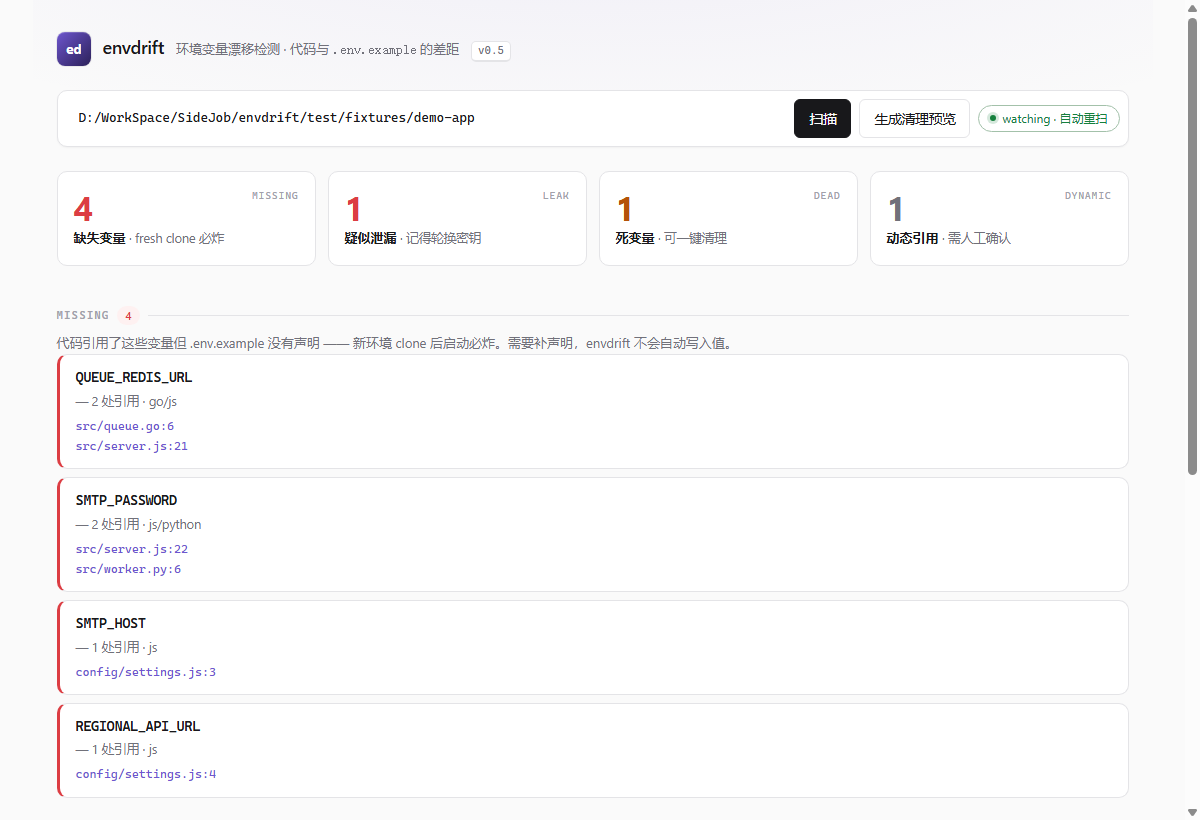
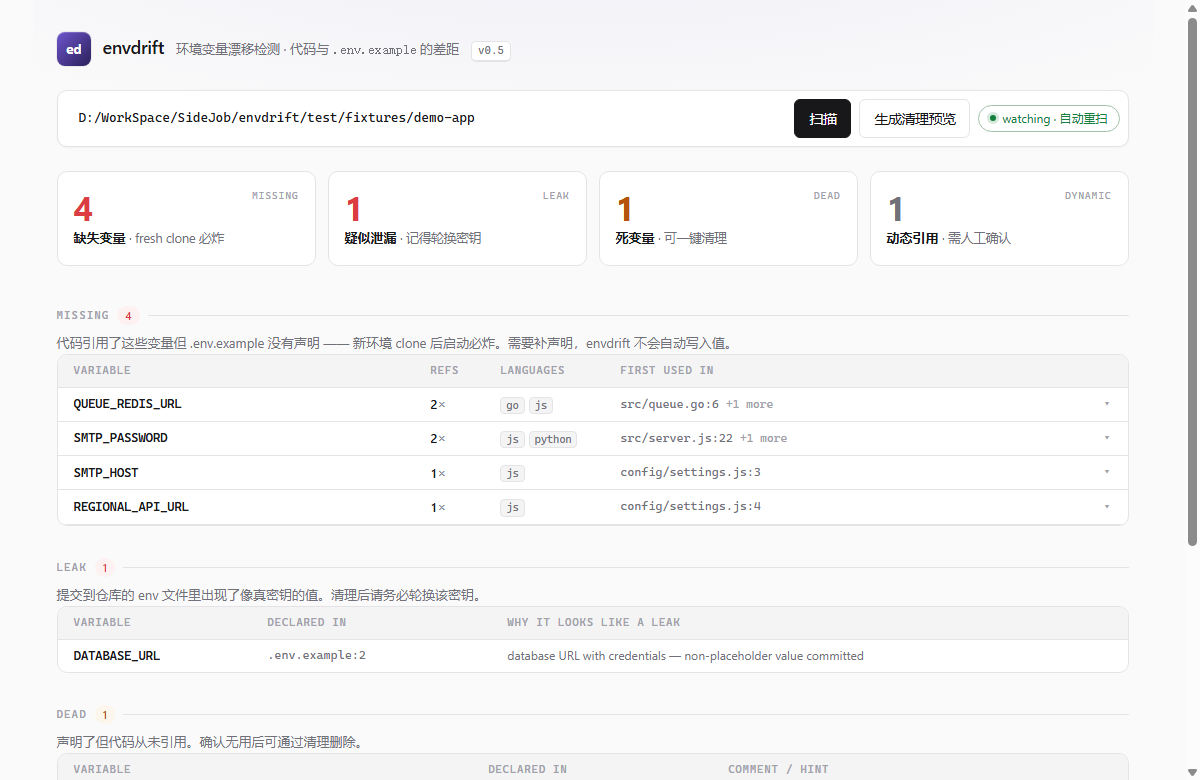
feat(ui): high-density table layout — fix the whitespace problem (v0.7)
Findings were one-variable-per-card with mostly empty space; a screen fit
4 variables. Now every section is a real data table:

- column-aligned rows: Variable | Refs | Languages | First used in
- language chips, tabular-num counts, '+N more' collapse, status dots
- click a missing row to expand all its reference locations inline
- click any file:line link to open a file-peek modal with the offending
  config line highlighted (server-backed /api/file)
- leaks/dead/dynamic tables with dedicated columns (where, reason, hint)
- ~5-6x more rows per screen; screenshots refreshed

diff --git a/src/web/index.html b/src/web/index.html
@@ -165,33 +165,53 @@ section { margin-top: var(--space-6); scroll-margin-top: var(--space-5); }
   margin-top: var(--space-5); font-weight: 500;
 }
 
-/* ---------- finding rows ---------- */
-.finding {
-  display: flex; flex-direction: column; gap: 2px;
+/* ---------- finding tables (high density) ---------- */
+.tblwrap {
   border: 1px solid var(--line); border-radius: var(--radius-md);
-  background: var(--surface);
-  padding: var(--space-3) var(--space-4);
-  margin-bottom: var(--space-2);
-  transition: border-color .12s ease-out;
+  background: var(--surface); overflow: hidden;
 }
-.finding:hover { border-color: var(--line-strong); }
-.finding.missing { border-left: 3px solid var(--danger); }
-.finding.leak { border-left: 3px solid var(--danger); }
-.finding.dead { border-left: 3px solid var(--warn); }
-.finding .name { font-family: var(--mono); font-weight: 600; font-size: 13.5px; letter-spacing: -0.01em; }
-.finding .meta { color: var(--fg-muted); font-size: 12.5px; }
-.finding .src {
-  font-family: var(--mono); font-size: 12px; margin-top: var(--space-1);
-  color: var(--fg-muted); white-space: pre-wrap; word-break: break-all;
+table.tbl { width: 100%; border-collapse: collapse; font-size: 13px; }
+.tbl th {
+  position: sticky; top: 0; z-index: 1;
+  text-align: left; font-weight: 550; font-size: 11px;
+  font-family: var(--mono); letter-spacing: .07em; text-transform: uppercase;
+  color: var(--fg-faint); background: var(--bg-subtle);
+  padding: 7px var(--space-4); border-bottom: 1px solid var(--line);
+  white-space: nowrap;
 }
-.finding.leak .src { color: var(--danger); }
-.finding.dead .src { color: var(--warn); }
-.finding .refs { margin: var(--space-1) 0 0; padding: 0; list-style: none; display: flex; flex-direction: column; gap: 1px; }
-.finding .refs li { font-family: var(--mono); font-size: 12px; color: var(--fg-muted); }
-.finding .refs a { color: var(--accent); text-decoration: none; }
-.finding .refs a:hover { text-decoration: underline; }
+.tbl td {
+  padding: 7px var(--space-4); border-bottom: 1px solid var(--line);
+  vertical-align: middle; line-height: 1.45;
+}
+.tbl tr:last-child td { border-bottom: none; }
+.tbl tbody tr { transition: background .1s ease-out; }
+.tbl tbody tr:hover { background: var(--bg-subtle); }
+.tbl .vname { font-family: var(--mono); font-weight: 600; font-size: 12.5px; letter-spacing: -0.01em; word-break: break-all; }
+.tbl .loc { font-family: var(--mono); font-size: 12px; color: var(--fg-muted); white-space: nowrap; }
+.tbl .loc a { color: var(--fg-muted); text-decoration: none; }
+.tbl .loc a:hover { color: var(--accent); text-decoration: underline; }
+.tbl .more { color: var(--fg-faint); font-size: 11.5px; white-space: nowrap; }
+.tbl .num { font-variant-numeric: tabular-nums; color: var(--fg-muted); font-size: 12.5px; white-space: nowrap; }
+.tbl .num b { color: var(--fg); font-weight: 600; }
+.dotcol { display: inline-flex; align-items: center; gap: 6px; }
+.dotcol::before { content: ""; width: 7px; height: 7px; border-radius: 50%; flex: none; }
+tr.row-missing .dotcol::before { background: var(--danger); }
+tr.row-leak .dotcol::before { background: var(--danger); box-shadow: 0 0 0 3px color-mix(in oklab, var(--danger) 15%, transparent); }
+tr.row-dead .dotcol::before { background: var(--warn); }
+tr.row-dyn .dotcol::before { background: var(--fg-faint); }
+.langtag {
+  display: inline-block; font-family: var(--mono); font-size: 10.5px;
+  color: var(--fg-muted); background: var(--bg-subtle);
+  border: 1px solid var(--line); border-radius: 4px; padding: 0 5px; margin-right: 4px;
+}
+.reason { color: var(--fg-muted); font-size: 12px; }
+.rowdetail { background: var(--bg-subtle); }
+.rowdetail td { padding: var(--space-2) var(--space-4) var(--space-3); border-bottom: 1px solid var(--line); }
+.rowdetail .refs { display: flex; flex-direction: column; gap: 2px; padding: 0; margin: 0; list-style: none; }
+.rowdetail .refs a { font-family: var(--mono); font-size: 12px; color: var(--accent); text-decoration: none; width: fit-content; }
+.rowdetail .refs a:hover { text-decoration: underline; }
 
-/* ---------- diff preview ---------- */
+/* ---------- sections ---------- */
 .diff {
   font-family: var(--mono); font-size: 12.5px;
   background: var(--bg-subtle); border: 1px solid var(--line);
@@ -244,6 +264,25 @@ section { margin-top: var(--space-6); scroll-margin-top: var(--space-5); }
 footer { margin-top: var(--space-7); color: var(--fg-faint); font-size: 12.5px; border-top: 1px solid var(--line); padding-top: var(--space-4); display: flex; gap: var(--space-2); flex-wrap: wrap; }
 footer a { color: var(--fg-muted); text-decoration: none; }
 footer a:hover { color: var(--fg); text-decoration: underline; }
+
+/* file peek overlay */
+#filepeek { position: fixed; inset: 0; background: rgba(0,0,0,.45); display: grid; place-items: center; z-index: 50; padding: var(--space-5); }
+.peekcard {
+  background: var(--surface); border: 1px solid var(--line-strong); border-radius: var(--radius-md);
+  width: min(760px, 100%); max-height: 80vh; display: flex; flex-direction: column;
+  box-shadow: 0 16px 48px rgba(0,0,0,.25);
+}
+.peekhead {
+  display: flex; align-items: center; justify-content: space-between; gap: var(--space-3);
+  padding: var(--space-3) var(--space-4); border-bottom: 1px solid var(--line);
+  font-family: var(--mono); font-size: 12.5px; font-weight: 600;
+}
+.peekbody {
+  font-family: var(--mono); font-size: 12px; line-height: 1.75;
+  padding: var(--space-3) var(--space-4); overflow: auto; margin: 0;
+  white-space: pre; color: var(--fg-muted);
+}
+.peekbody .peekhot { display: block; background: var(--accent-subtle); color: var(--fg); border-left: 2px solid var(--accent); padding-left: var(--space-2); margin-left: calc(-1 * var(--space-2) - 2px); }
 @media (max-width: 640px) {
   .stat b { font-size: 28px; }
   .scanrow .btn { flex: 1 1 auto; justify-content: center; }
@@ -370,13 +409,27 @@ async function scan(quiet = false) {
   } finally { if (!quiet) busy(false); }
 }
 
+function tbl(id, cols, rowsHtml, emptyText, count) {
+  const el = $(id);
+  if (!count) { el.innerHTML = ''; return; }
+  el.innerHTML = `
+    <div class="tblwrap"><table class="tbl">
+      <thead><tr>${cols.map((c) => `<th${c.w ? ` style="width:${c.w}"` : ''}>${c.t}</th>`).join('')}</tr></thead>
+      <tbody>${rowsHtml}</tbody>
+    </table></div>`;
+}
+
+function refLinks(refs, max = 3) {
+  return refs.slice(0, max).map((ref) =>
+    `<a href="#" data-file="${esc(ref.file)}" data-line="${ref.line}">${esc(ref.file)}:${ref.line}</a>`).join('');
+}
+
 function render(r) {
   const n = (id, v) => { $(id).textContent = v; };
   n('st-missing', r.missing.length); n('st-leaks', r.leaks.length);
   n('st-dead', r.dead.length); n('st-dynamic', r.dynamic.length);
   n('n-missing', r.missing.length); n('n-leaks', r.leaks.length);
   n('n-dead', r.dead.length); n('n-dynamic', r.dynamic.length);
-  // zero-count stats get the calm ok color and lose their anchor
   const z = (id, v) => { const el = $(id); el.classList.toggle('zero', v === 0); if (v === 0) el.removeAttribute('href'); else el.setAttribute('href', '#sec-' + id.replace('stat-', '')); };
   z('stat-missing', r.missing.length); z('stat-leaks', r.leaks.length);
   z('stat-dead', r.dead.length);
@@ -386,38 +439,58 @@ function render(r) {
   $('clean').hidden = total !== 0;
   $('fix').disabled = !(r.dead.length || r.leaks.length);
 
+  // missing: VARIABLE | refs count | languages | locations (expandable)
   $('sec-missing').hidden = !r.missing.length;
-  $('list-missing').innerHTML = r.missing.map((m) => `
-    <div class="finding missing">
-      <span class="name">${esc(m.name)}</span>
-      <span class="meta"> — ${m.refs.length} 处引用 · ${esc(m.langs.join('/'))}</span>
-      <ul class="refs">${m.refs.slice(0, 4).map((ref) =>
-        `<li><a href="#" data-file="${esc(ref.file)}" data-line="${ref.line}">${esc(ref.file)}:${ref.line}</a></li>`).join('')}
-        ${m.refs.length > 4 ? `<li>… 还有 ${m.refs.length - 4} 处</li>` : ''}
-      </ul>
-    </div>`).join('');
+  $('list-missing').innerHTML = '';
+  tbl('list-missing',
+    [{ t: 'Variable' }, { t: 'Refs', w: '70px' }, { t: 'Languages', w: '120px' }, { t: 'First used in', w: 'auto' }, { t: '', w: '24px' }],
+    r.missing.map((m, i) => {
+      const loc = m.refs[0];
+      return `<tr class="row-missing" data-i="${i}">
+        <td class="vname">${esc(m.name)}</td>
+        <td class="num"><b>${m.refs.length}</b>×</td>
+        <td>${m.langs.map((l) => `<span class="langtag">${esc(l)}</span>`).join('')}</td>
+        <td class="loc"><a href="#" data-file="${esc(loc.file)}" data-line="${loc.line}">${esc(loc.file)}:${loc.line}</a>${m.refs.length > 1 ? ` <span class="more">+${m.refs.length - 1} more</span>` : ''}</td>
+        <td class="more">▾</td>
+      </tr><tr class="rowdetail" hidden><td colspan="5"><ul class="refs">${refLinks(m.refs, 8)}</ul></td></tr>`;
+    }).join(''),
+    '', r.missing.length);
 
+  // leaks: VARIABLE | where | reason
   $('sec-leaks').hidden = !r.leaks.length;
-  $('list-leaks').innerHTML = r.leaks.map((l) => `
-    <div class="finding leak">
-      <span class="name">${esc(l.name)}</span>
-      <span class="meta"> — ${esc(l.reason)}</span>
-      <div class="src">${esc(l.file)}:${l.line}</div>
-    </div>`).join('');
+  tbl('list-leaks',
+    [{ t: 'Variable' }, { t: 'Declared in', w: '240px' }, { t: 'Why it looks like a leak' }],
+    r.leaks.map((l) => `
+      <tr class="row-leak">
+        <td class="vname">${esc(l.name)}</td>
+        <td class="loc"><a href="#" data-file="${esc(l.file)}" data-line="${l.line}">${esc(l.file)}:${l.line}</a></td>
+        <td class="reason">${esc(l.reason)}</td>
+      </tr>`).join(''),
+    '', r.leaks.length);
 
+  // dead: VARIABLE | declared in | hint from comment
   $('sec-dead').hidden = !r.dead.length;
-  $('list-dead').innerHTML = r.dead.map((d) => `
-    <div class="finding dead">
-      <span class="name">${esc(d.name)}</span>
-      <span class="meta"> — 声明于 ${esc(d.declaredIn)}:${d.line}${d.comment ? ' · ' + esc(d.comment) : ''}</span>
-    </div>`).join('');
+  tbl('list-dead',
+    [{ t: 'Variable' }, { t: 'Declared in', w: '240px' }, { t: 'Comment / hint' }],
+    r.dead.map((d) => `
+      <tr class="row-dead">
+        <td class="vname">${esc(d.name)}</td>
+        <td class="loc"><a href="#" data-file="${esc(d.declaredIn)}" data-line="${d.line}">${esc(d.declaredIn)}:${d.line}</a></td>
+        <td class="reason">${d.comment ? esc(d.comment) : '<span class="more">—</span>'}</td>
+      </tr>`).join(''),
+    '', r.dead.length);
 
+  // dynamic: VARIABLE | where
   $('sec-dynamic').hidden = !r.dynamic.length;
   const uniq = [...new Map(r.dynamic.map((d) => [d.name + d.file + d.line, d])).values()];
-  $('list-dynamic').innerHTML = uniq.slice(0, 12).map((d) => `
-    <div class="finding"><span class="name">${esc(d.name)}</span>
-    <span class="meta"> — ${esc(d.file)}:${d.line}</span></div>`).join('') +
-    (uniq.length > 12 ? `<div class="empty">… 还有 ${uniq.length - 12} 处</div>` : '');
+  tbl('list-dynamic',
+    [{ t: 'Expression' }, { t: 'Location', w: 'auto' }],
+    uniq.slice(0, 20).map((d) => `
+      <tr class="row-dyn">
+        <td class="vname">${esc(d.name)}</td>
+        <td class="loc"><a href="#" data-file="${esc(d.file)}" data-line="${d.line}">${esc(d.file)}:${d.line}</a></td>
+      </tr>`).join('') + (uniq.length > 20 ? `<tr><td colspan="2" class="more" style="padding:8px 16px">… 还有 ${uniq.length - 20} 处</td></tr>` : ''),
+    '', uniq.length);
 }
 
 async function previewPlan() {
@@ -489,6 +562,38 @@ $('root').addEventListener('keydown', (e) => { if (e.key === 'Enter') scan(); })
 $('fix').addEventListener('click', previewPlan);
 $('apply').addEventListener('click', applyPlanNow);
 $('cancel').addEventListener('click', () => { $('sec-preview').hidden = true; });
+
+// expandable missing-rows: click the row (not a link) to toggle its detail
+document.addEventListener('click', (e) => {
+  const a = e.target.closest('a[data-file]');
+  if (a) { e.preventDefault(); openFile(a.dataset.file, Number(a.dataset.line)); return; }
+  const tr = e.target.closest('tr.row-missing');
+  if (!tr) return;
+  const detail = tr.nextElementSibling;
+  if (detail && detail.classList.contains('rowdetail')) detail.hidden = !detail.hidden;
+});
+
+// ask the server for the offending config line and show it inline
+async function openFile(file, line) {
+  if (!currentRoot) return;
+  try {
+    const start = Math.max(1, line - 2);
+    const r = await fetch(`/api/file?root=${encodeURIComponent(currentRoot)}&path=${encodeURIComponent(file)}&start=${start}&end=${line + 2}`);
+    const data = await r.json();
+    if (!r.ok) throw new Error(data.error || ('HTTP ' + r.status));
+    let existing = document.getElementById('filepeek');
+    if (!existing) {
+      existing = document.createElement('div');
+      existing.id = 'filepeek';
+      existing.innerHTML = `<div class="peekcard"><div class="peekhead"><span id="peekpath"></span><button class="btn ghost" id="peekclose">关闭</button></div><pre id="peekbody" class="peekbody"></pre></div>`;
+      document.body.append(existing);
+      existing.querySelector('#peekclose').addEventListener('click', () => existing.remove());
+    }
+    existing.querySelector('#peekpath').textContent = `${file}:${line}`;
+    existing.querySelector('#peekbody').innerHTML = data.lines.map((l) =>
+      `<span class="${l.n === line ? 'peekhot' : ''}">${String(l.n).padStart(4)}  ${esc(l.text)}</span>`).join('\n');
+  } catch (e) { showError('无法读取文件：' + e.message); }
+}
 
 // default suggestion for quick demo
 const params = new URLSearchParams(location.search);
